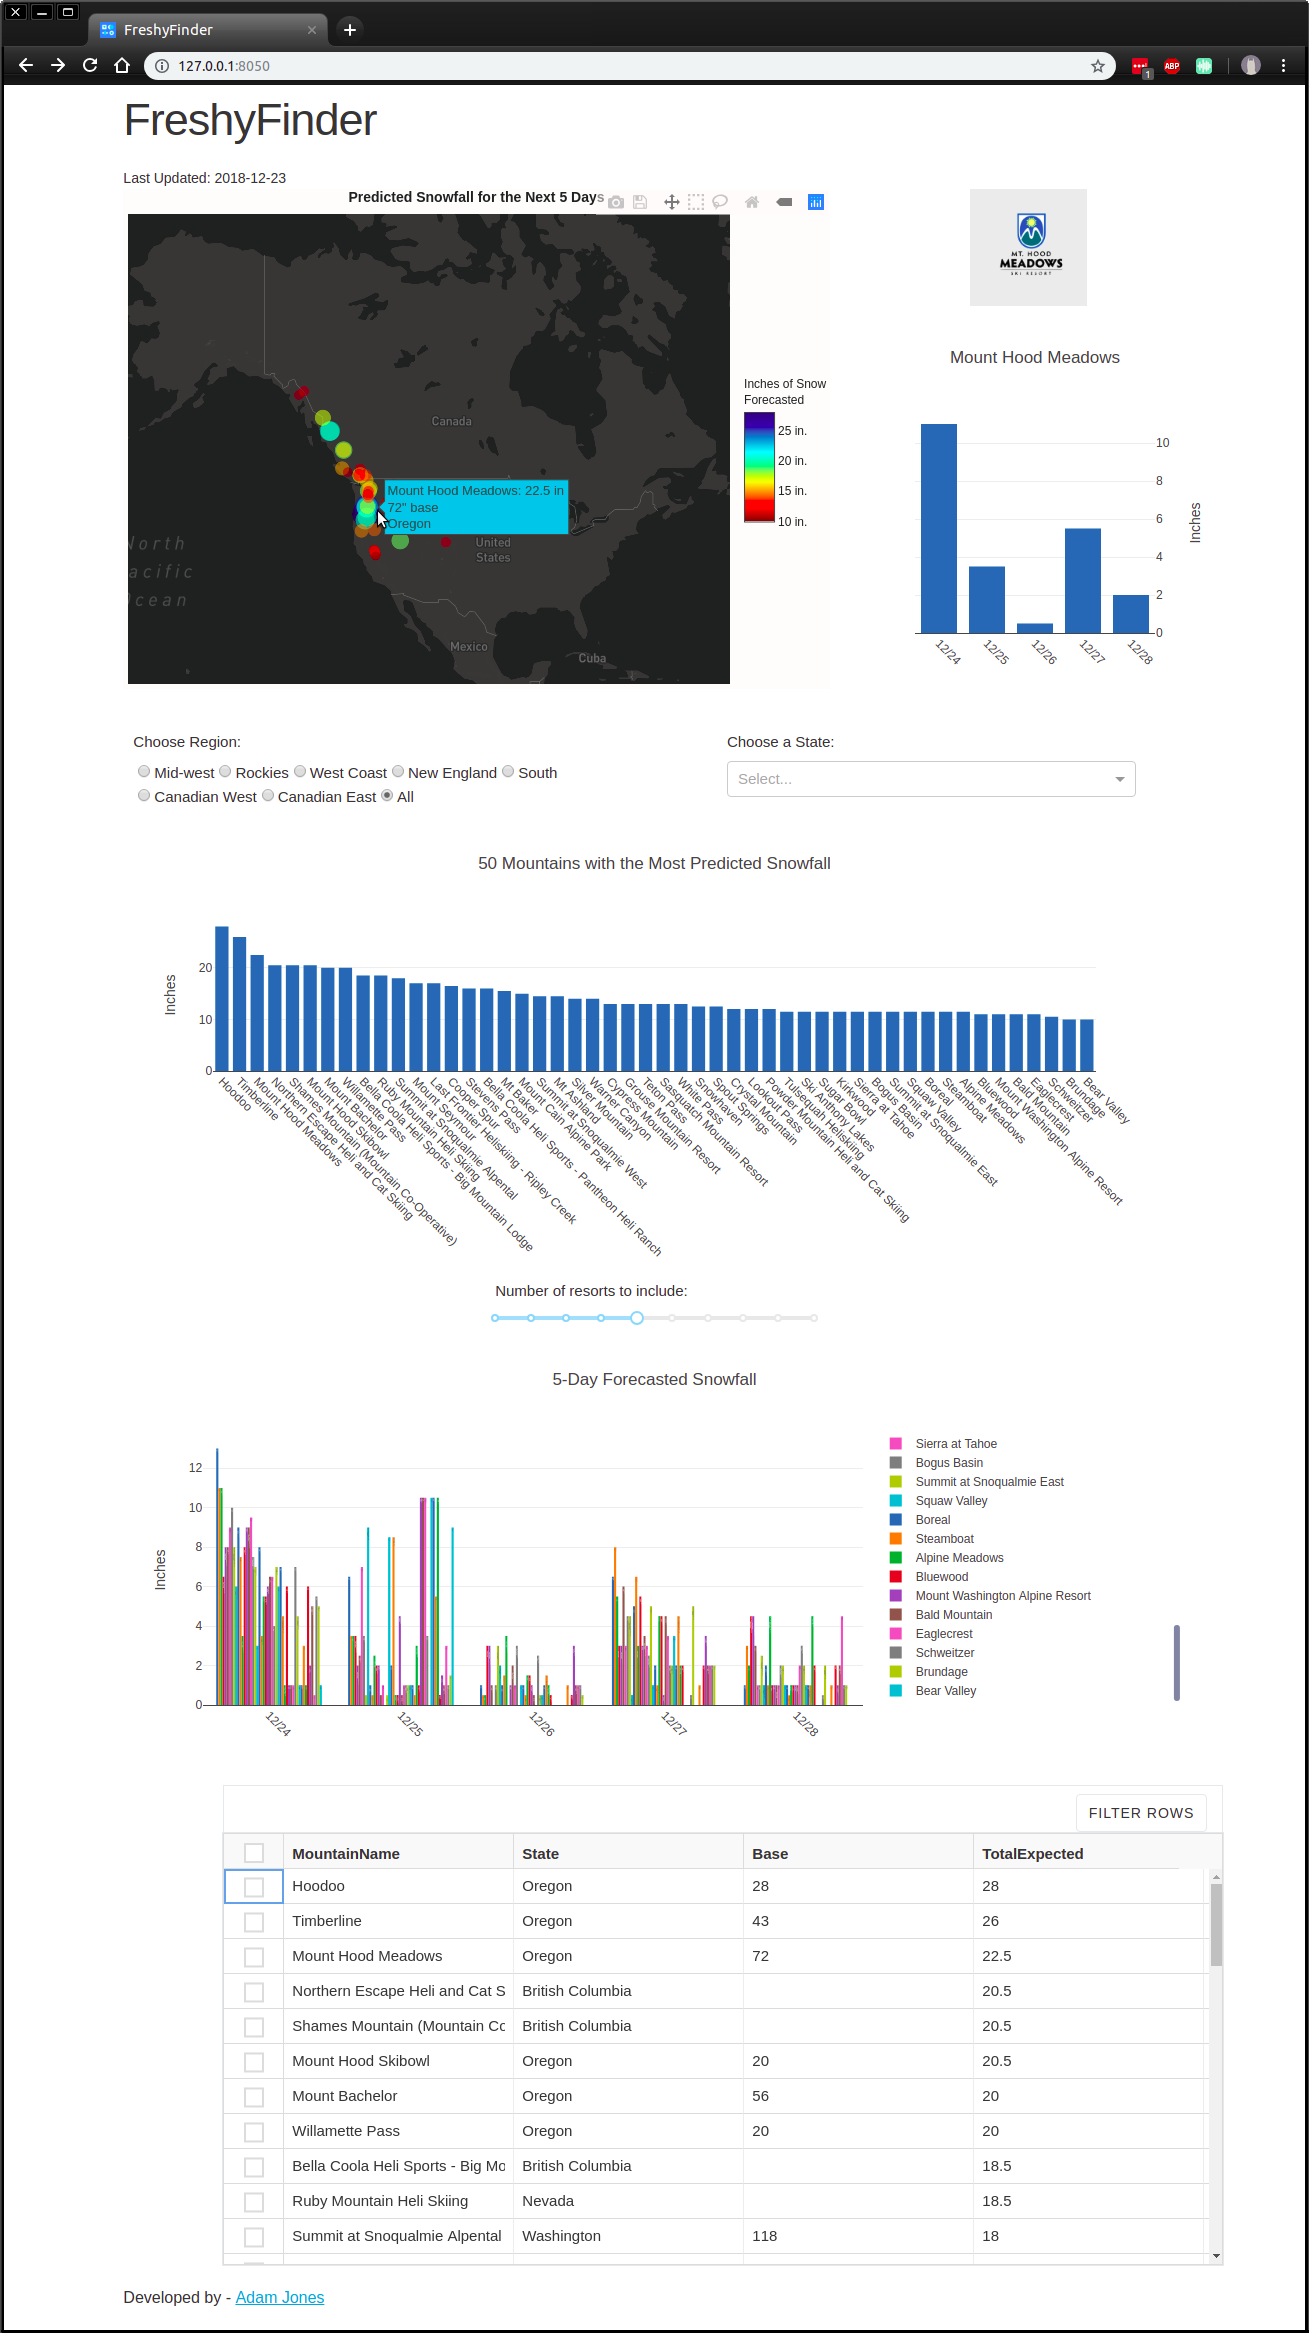
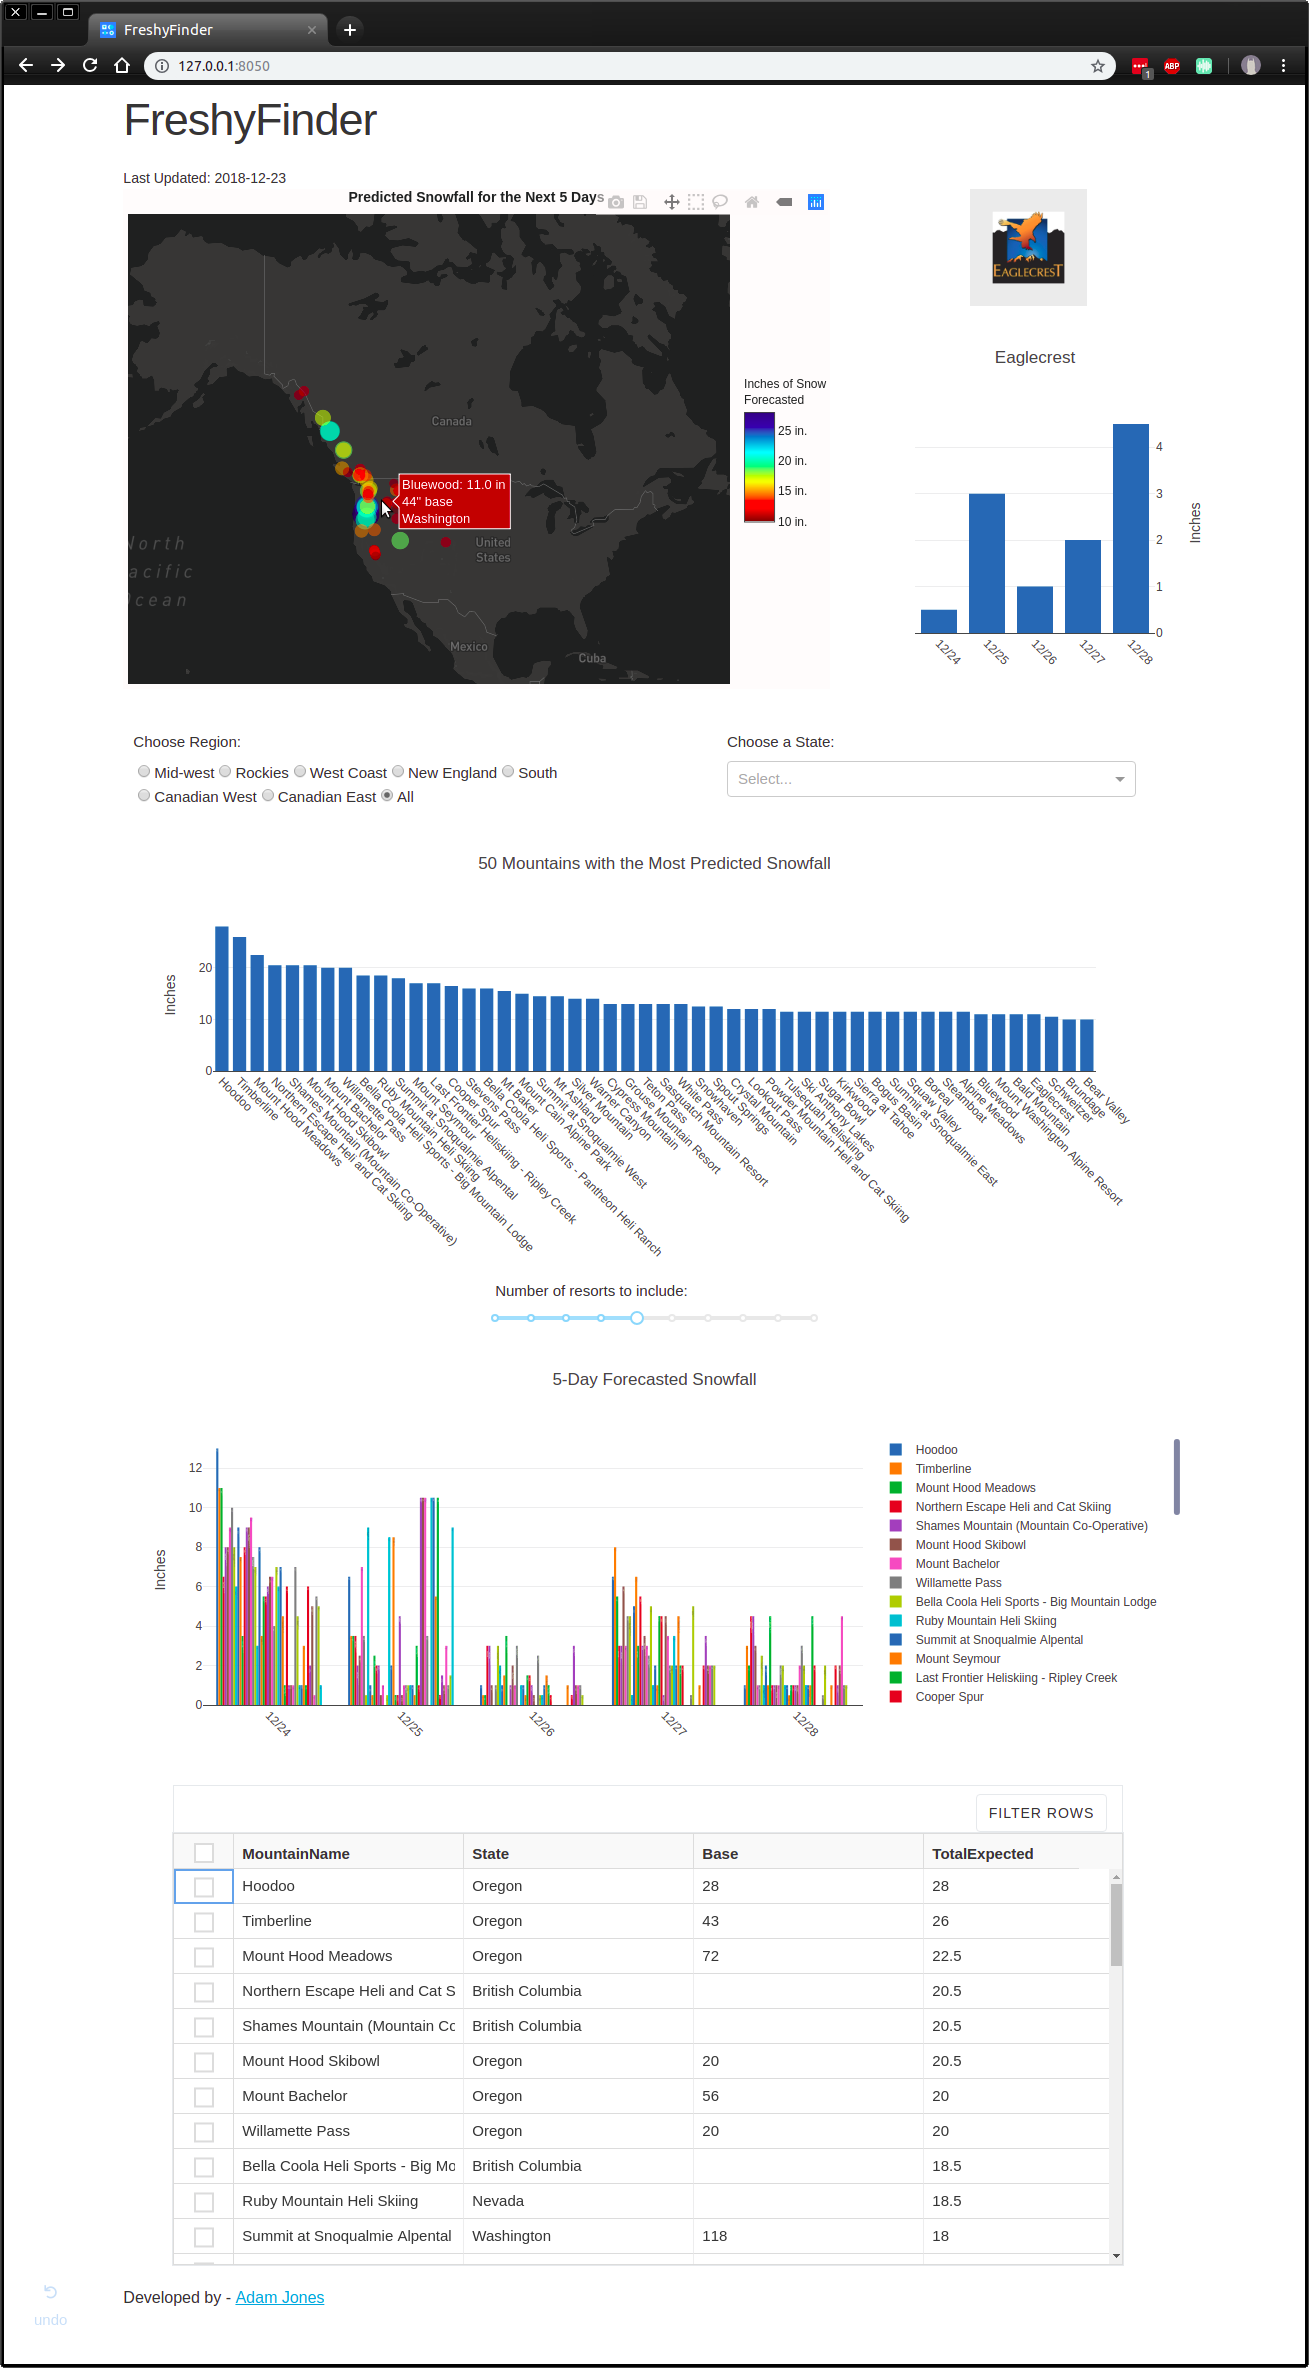
fixing README

diff --git a/app.py b/app.py
@@ -120,7 +120,7 @@ layout_table = dict(
     plot_bgcolor='#fffcfc',
     paper_bgcolor='#fffcfc',
 )
-layout_table['padding-left']=100
+layout_table['padding-left']=50
 
 # Map configuration
 layout_map = dict(
